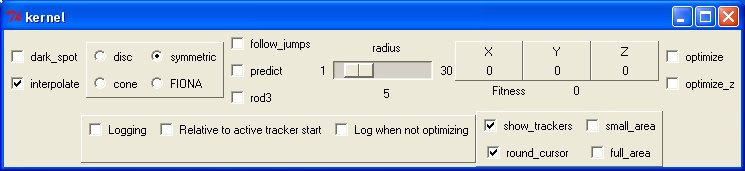
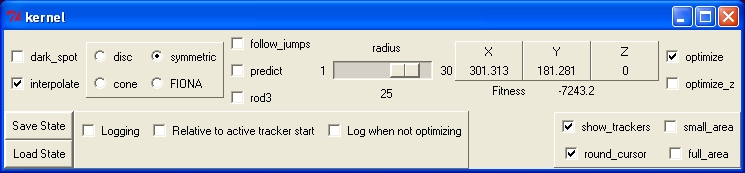
2009-07-31  Russell M. Taylor II  <taylorr@cs.unc.edu>
* video_spot_tracker.cpp : Added buttons to save and load the state of the
		program, along with a -load_state comand-line option.  Updates version
		number to 5.29.

diff --git a/video_spot_tracker/video_spot_tracker.html b/video_spot_tracker/video_spot_tracker.html
@@ -1,6 +1,6 @@
-<title>Video Spot Tracker v05.28</title>
+<title>Video Spot Tracker v05.29</title>
 
-<h1>Video Spot Tracker version 05.28</h1>
+<h1>Video Spot Tracker version 05.29</h1>
 
 <p>The <i><b>Video Spot Tracker</b></i> program is used to track the motion of 
   one or more spots in a <a href="http://www.microsoft.com/directx">Microsoft 
@@ -58,7 +58,7 @@
   icon that was created when the program was installed. To select a stack of image 
   files that are numbered consecutively, drag any one of the files onto the icon. 
   It can also be run by selecting one of the camera-specific shortcuts from <i><b>Start 
-  Menu/All Programs/NSRG/Video Spot Tracker v05.28</b></i>. If you run the program 
+  Menu/All Programs/NSRG/Video Spot Tracker v05.29</b></i>. If you run the program 
   directly by double-clicking on the icon, it will ask for a video or image file 
   (AVI, TIF, or BMP) that it should open.</p>
 
@@ -102,11 +102,11 @@
 
 <h3>Selecting the type of tracker and tracking/logging parameters</h3>
 
-<p><img src="kernel.jpg" width="745" height="171"></p>
+<p><img src="kernel.jpg" width="745" height="173"></p>
 
-<p>There are three types of tracking kernels available in version 4.05: disc, 
-  cone, and symmetric. Their properties are controlled using interface widgets 
-  in the <cite>kernel</cite> control panel.</p>
+<p>There are four types of tracking kernels available: disc, cone, symmetric, 
+  and FIONA. Their properties are controlled using interface widgets in the <cite>kernel</cite> 
+  control panel.</p>
 
 <p>For tracking spots that are even in intensity, or which have uneven intensities within them but a defined circular edge, the <cite><strong>disc</strong></cite> kernel should be used. The radius should be set to match the radius of the spots you wish to track. The <cite><strong>interpolate</strong></cite> checkbox should be set for more accuracy and cleared for more speed.</p>
 
@@ -335,6 +335,14 @@
   within a 5-pixel radius around the center of the Gaussian with the mean background 
   subtracted from each.</p>
 
+<h3>Saving and loading program settings</h3>
+<p>Once you have all of the settings tweaked just the way you like them for a 
+  given experiment set-up, you can save them all to a configuration file using 
+  the <b><i>Save State</i></b> button in the lower-left corner of the <b><i>kernel</i></b> 
+  window. Then, when you open a similar file again later you can load these settings 
+  using the <b><i>Load State</i></b> button. This is useful if you have one or 
+  more favorite settings -- you don't have to set them all again by hand.</p>
+<h3></h3>
 <h3>Controlling playback</h3>
 
 <p>Whether logging is turned on or not, the video can be played by checking the <b><i>play_video</i></b> checkbox, and paused by unchecking it. The <b><i>single_step_video</i></b> checkbox will step forwards one video frame each time it is pressed. The <b><i>rewind</i></b> checkbox causes the video to rewind to the beginning, play the first frame of the video, and then pause. The <cite>FrameNum</cite> display shows which frame of a video file is currently being displayed.</p> 
@@ -364,6 +372,19 @@
 
 <h2>Version Information</h2>
 
+<h3>Version 5.29:</h3>
+<ul>
+  <li>Added <i>Save State</i> and <i>Load State </i>buttons that store the current 
+    kernel, lost-and-found, exposure, and precision settings to a file so that 
+    if you have a favorite setup, you can keep them for running on other files. 
+    Also added a &quot;-load_state&quot; command-line option so that you can use 
+    this with a script. As a special hidden bonus, you should know that each line 
+    from the state file is passed as-is to the Tcl interpreter, so this could 
+    potentially be used to script things besides state.</li>
+  <li>Added a<i> -nogui</i> command-line parameter that turns off the video display 
+    window and enables tracking at greater than the frame-refresh rate.</li>
+</ul>
+<h3></h3>
 <h3>Version 5.28:</h3>
 <ul>
   <li>Added an <i>-intensity_lost_sensitivity</i> command-line parameter so that 

diff --git a/video_spot_tracker.cpp b/video_spot_tracker.cpp
@@ -92,7 +92,7 @@ const double M_PI = 2*asin(1.0);
 
 //--------------------------------------------------------------------------
 // Version string for this program
-const char *Version_string = "05.28";
+const char *Version_string = "05.29";
 
 //--------------------------------------------------------------------------
 // Global constants
@@ -181,7 +181,6 @@ image_wrapper	    *g_calculated_image = NULL;	  //< Image calculated from the ca
 unsigned            g_background_count = 0;       //< Number of frames we've already averaged over
 copy_of_image	    *g_last_image = NULL;	  //< Copy of the last image we had, if any
 
-float		    g_search_radius = 0;	  //< Search radius for doing local max in before optimizing.
 Controllable_Video  *g_video = NULL;		  //< Video controls, if we have them
 Tclvar_int_with_button	g_frame_number("frame_number",NULL,-1);  //< Keeps track of video frame number
 #ifdef _WIN32
@@ -282,6 +281,8 @@ void  set_debug_visibility(int newvalue, void *);
 void  set_kymograph_visibility(int newvalue, void *);
 void  set_maximum_search_radius(int newvalue, void *);
 void  handle_optimize_z_change(int newvalue, void *);
+void  handle_save_state_change(int newvalue, void *);
+void  handle_load_state_change(int newvalue, void *);
 Tclvar_float		g_X("x");
 Tclvar_float		g_Y("y");
 Tclvar_float		g_Z("z");
@@ -308,7 +309,8 @@ Tclvar_int_with_button	g_showLostAndFound("show_lost_and_found","",0);
 Tclvar_int_with_button	g_invert("dark_spot",NULL,0, rebuild_trackers);
 Tclvar_int_with_button	g_interpolate("interpolate",NULL,1, rebuild_trackers);
 Tclvar_int_with_button	g_parabolafit("parabolafit",NULL,0);
-Tclvar_int_with_button	g_areamax("areamax",NULL,0, set_maximum_search_radius);
+Tclvar_int_with_button	g_follow_jumps("follow_jumps",NULL,0, set_maximum_search_radius);
+Tclvar_float		g_search_radius("search_radius",0);	  //< Search radius for doing local max in before optimizing.
 Tclvar_int_with_button	g_predict("predict",NULL,0);
 Tclvar_int_with_button	g_kernel_type("kerneltype", NULL, KERNEL_SYMMETRIC, rebuild_trackers);
 Tclvar_int_with_button	g_rod("rod3",NULL,0, rebuild_trackers);
@@ -317,6 +319,8 @@ Tclvar_float_with_scale	g_orientation("orient", ".rod3", 0, 359, 0);
 Tclvar_int_with_button	g_opt("optimize",".kernel.optimize");
 Tclvar_int_with_button	g_opt_z("optimize_z",".kernel.optimize", 0, handle_optimize_z_change);
 Tclvar_selector		g_psf_filename("psf_filename", NULL, NULL, "");
+Tclvar_selector		g_load_state_filename("load_state_filename", NULL, NULL, "");
+Tclvar_selector		g_save_state_filename("save_state_filename", NULL, NULL, "");
 Tclvar_int_with_button	g_round_cursor("round_cursor",NULL,1);
 Tclvar_int_with_button	g_small_area("small_area",NULL);
 Tclvar_int_with_button	g_full_area("full_area",NULL);
@@ -333,6 +337,8 @@ Tclvar_int_with_button	*g_play = NULL, *g_rewind = NULL, *g_step = NULL;
 Tclvar_selector		g_logfilename("logfilename", NULL, NULL, "", logfilename_changed, NULL);
 Tclvar_int		g_log_relative("logging_relative");
 Tclvar_int		g_log_without_opt("logging_without_opt");
+Tclvar_int	        g_save_state("save_state", 0, handle_save_state_change);
+Tclvar_int	        g_load_state("load_state", 0, handle_load_state_change);
 double			g_log_offset_x, g_log_offset_y, g_log_offset_z;
 Tclvar_int              g_logging("logging"); //< Accessor for the GUI logging button so rewind can turn it off.
 bool g_video_valid = false; // Do we have a valid video frame in memory?
@@ -1481,7 +1487,7 @@ static void optimize_tracker(Spot_Information *tracker)
   // image-based tracker for this because other trackers may have maximum
   // fits outside the region where the bead is -- the symmetric tracker often
   // has a local maximum at best fit and global maxima elsewhere.
-  if ( g_last_image && (g_search_radius > 0) && (g_last_optimized_frame_number != g_frame_number) ) {
+  if ( g_last_image && ((double)(g_search_radius) > 0) && (g_last_optimized_frame_number != g_frame_number) ) {
 
     double x_base = tracker->xytracker()->get_x();
     double y_base = tracker->xytracker()->get_y();
@@ -1491,7 +1497,7 @@ static void optimize_tracker(Spot_Information *tracker)
     // it starts to lose track with an accuracy of 1 pixel for a bead on cilia in
     // pulnix video (acquired at 120 frames/second).
     double used_search_radius = g_search_radius;
-    if ( g_predict && (g_search_radius > 3) ) {
+    if ( g_predict && (used_search_radius > 3) ) {
       used_search_radius = 3;
     }
 
@@ -2338,7 +2344,7 @@ void myIdleFunc(void)
   // If we're doing a search for local maximum during optimization, then make a
   // copy of the previous image before reading a new one.
 
-  if (g_search_radius > 0) {
+  if ((double)(g_search_radius) > 0) {
     if (g_last_image == NULL) {
       g_last_image = new copy_of_image(*g_image);
     } else {
@@ -3253,6 +3259,128 @@ void  set_maximum_search_radius(int newvalue, void *)
   g_search_radius = 4 * g_Radius * newvalue;
 }
 
+// When the button for "Save State" is pressed, this
+// routine is called.  Ask the user for a file to save the state to.
+void  handle_save_state_change(int newvalue, void *)
+{
+  //------------------------------------------------------------
+  // Create a dialog box that will ask the user
+  // to either fill it in or cancel (if the file is "NONE").
+  // Wait until they have made a choice.
+  g_save_state_filename = "";
+  if (Tcl_Eval(g_tk_control_interp, "ask_user_for_save_state_filename") != TCL_OK) {
+    fprintf(stderr, "Tcl_Eval(ask_user_for_save_state_filename) failed: %s\n", g_tk_control_interp->result);
+    cleanup();
+    exit(-1);
+  }
+  do {
+    //------------------------------------------------------------
+    // This pushes changes in the C variables over to Tcl.
+
+    while (Tk_DoOneEvent(TK_DONT_WAIT)) {};
+    if (Tclvar_mainloop()) {
+	fprintf(stderr,"Tclvar Mainloop failed\n");
+    }
+  } while (strcmp(g_save_state_filename,"") == 0);
+
+  //------------------------------------------------------------
+  // Open the file and write a Tcl-interpretable line for each
+  // state value that we want to set.  These will then be
+  // interpreted when the file is loaded again.  Do not store
+  // the state of the optimize flag or the locations of any of
+  // the trackers, but do set all of the default values.
+  const char *outname = g_save_state_filename;
+  FILE *f = fopen(outname, "w");
+  if (f == NULL) {
+    perror("Cannot open state file for writing");
+    fprintf(stderr, "  (%s)\n", outname);
+    return;
+  }
+  fprintf(f, "set radius %lg\n", (double)(g_Radius));
+  fprintf(f, "set exposure_millisecs %lg\n", (double)(g_exposure));
+  fprintf(f, "set red_green_blue %lg\n", (double)(g_colorIndex));
+  fprintf(f, "set brighten %lg\n", (double)(g_brighten));
+  fprintf(f, "set precision %lg\n", (double)(g_precision));
+  fprintf(f, "set sample_spacing %lg\n", (double)(g_sampleSpacing));
+  fprintf(f, "set kernel_lost_tracking_sensitivity %lg\n", (double)(g_lossSensitivity));
+  fprintf(f, "set intensity_lost_tracking_sensitivity %lg\n", (double)(g_intensityLossSensitivity));
+  fprintf(f, "set dead_zone_around_border %lg\n", (double)(g_borderDeadZone));
+  fprintf(f, "set dead_zone_around_trackers %lg\n", (double)(g_trackerDeadZone));
+  fprintf(f, "set maintain_this_many_beads %lg\n", (double)(g_findThisManyBeads));
+  fprintf(f, "set candidate_spot_threshold %lg\n", (double)(g_candidateSpotThreshold));
+  fprintf(f, "set sliding_window_radius %lg\n", (double)(g_slidingWindowRadius));
+  fprintf(f, "set lost_behavior %d\n", (int)(g_lostBehavior));
+  fprintf(f, "set kerneltype %d\n", (int)(g_kernel_type));
+  fprintf(f, "set dark_spot %d\n", (int)(g_invert));
+  fprintf(f, "set interpolate %d\n", (int)(g_interpolate));
+  fprintf(f, "set parabolafit %d\n", (int)(g_parabolafit));
+  fprintf(f, "set predict %d\n", (int)(g_predict));
+  fprintf(f, "set follow_jumps %d\n", (int)(g_follow_jumps));
+  fprintf(f, "set search_radius %lg\n", (double)(g_search_radius));
+  fprintf(f, "set predict %d\n", (int)(g_predict));
+  fprintf(f, "set rod3 %d\n", (int)(g_rod));
+  fprintf(f, "set length %lg\n", (double)(g_length));
+  fprintf(f, "set orientation %lg\n", (double)(g_orientation));
+  fprintf(f, "set round_cursor %d\n", (int)(g_round_cursor));
+  fprintf(f, "set show_tracker %d\n", (int)(g_mark));
+  fprintf(f, "set show_video %d\n", (int)(g_show_video));
+  fprintf(f, "set background_subtract %d\n", (int)(g_background_subtract));
+
+  fclose(f);
+}
+
+bool load_state_from_file(const char *inname)
+{
+  //------------------------------------------------------------
+  // Open the file and read each of its lines, passing it to the Tcl
+  // parser for evaluation.  This lets people put whatever set commands
+  // they want into one of these files.
+  FILE *f = fopen(inname, "r");
+  if (f == NULL) {
+    perror("Cannot open state file for reading");
+    fprintf(stderr, "  (%s)\n", inname);
+    return false;
+  }
+  char  line[4096];
+  while (fgets(line, sizeof(line)-1, f)) {
+    if (Tcl_Eval(g_tk_control_interp, line) != TCL_OK) {
+      fprintf(stderr, "Tcl_Eval(%s) failed: %s\n", line, g_tk_control_interp->result);
+      cleanup();
+      exit(-1);
+    }
+  }
+  fclose(f);
+
+  return true;
+}
+
+// When the button for "Load State" is pressed, this
+// routine is called.  Ask the user for a file to load the state from.
+void  handle_load_state_change(int newvalue, void *)
+{
+  //------------------------------------------------------------
+  // Create a dialog box that will ask the user
+  // to either fill it in or cancel (if the file is "NONE").
+  // Wait until they have made a choice.
+  g_load_state_filename = "";
+  if (Tcl_Eval(g_tk_control_interp, "ask_user_for_load_state_filename") != TCL_OK) {
+    fprintf(stderr, "Tcl_Eval(ask_user_for_load_state_filename) failed: %s\n", g_tk_control_interp->result);
+    cleanup();
+    exit(-1);
+  }
+  do {
+    //------------------------------------------------------------
+    // This pushes changes in the C variables over to Tcl.
+
+    while (Tk_DoOneEvent(TK_DONT_WAIT)) {};
+    if (Tclvar_mainloop()) {
+	fprintf(stderr,"Tclvar Mainloop failed\n");
+    }
+  } while (strcmp(g_load_state_filename,"") == 0);
+
+  load_state_from_file(g_load_state_filename);
+}
+
 // When the check-box for "optimize Z" is changed, this
 // routine is called.  When it is turning on, we make the
 // user select a PSF file to use for Z tracking and create
@@ -3332,8 +3460,9 @@ void Usage(const char *progname)
 	fprintf(stderr, "           [-candidate_spot_threshold T] [-sliding_window_radius SR]\n");
 	fprintf(stderr, "           [-radius R] [-tracker X Y R] [-tracker X Y R]\n");
     fprintf(stderr, "           [-FIONA_background BG] ...\n");
+    fprintf(stderr, "           [-load_state FILE]\n");
     fprintf(stderr, "           [roper|cooke|edt|diaginc|directx|directx640x480|filename]\n");
-    fprintf(stderr, "       -nogui: Run without any graphical user interface (2D or 3D)\n");
+    fprintf(stderr, "       -nogui: Run without the video display window (no Glut/OpenGL)\n");
     fprintf(stderr, "       -kernel: Use kernels of the specified type (default symmetric)\n");
     fprintf(stderr, "       -rod3: Make a rod3 kernel of specified LENGTH(pixels) & ORIENT(degrees)\n");
     fprintf(stderr, "       -dark_spot: Track a dark spot (default is bright spot)\n");
@@ -3361,7 +3490,8 @@ void Usage(const char *progname)
     fprintf(stderr, "       -tracker: Create a tracker with radius R at pixel X,Y and initiate\n");
     fprintf(stderr, "                 optimization.  Multiple trackers can be created\n");
     fprintf(stderr, "       -FIONA_background: Set the default background for FIONA trackers to BG\n");
-	fprintf(stderr, "                 (default 0)\n");
+    fprintf(stderr, "                 (default 0)\n");
+    fprintf(stderr, "       -load_state: Load program state from FILE\n");
     fprintf(stderr, "       source: The source file for tracking can be specified here (default is\n");
 	fprintf(stderr, "                 a dialog box)\n");
     exit(-1);
@@ -3574,7 +3704,7 @@ int main(int argc, char *argv[])
     } else if (!strncmp(argv[i], "-dark_spot", strlen("-dark_spot"))) {
       g_invert = true;
     } else if (!strncmp(argv[i], "-follow_jumps", strlen("-follow_jumps"))) {
-      g_areamax = 1;
+      g_follow_jumps = 1;
     } else if (!strncmp(argv[i], "-outfile", strlen("-outfile"))) {
       if (++i > argc) { Usage(argv[0]); }
       char *name = new char[strlen(argv[i])+6];
@@ -3634,6 +3764,12 @@ int main(int argc, char *argv[])
 		g_Radius = atof(argv[i]);
 	} else if (!strncmp(argv[i], "-show_lost_and_found", strlen("-show_lost_and_found"))) {
 		g_showLostAndFound = true;
+    } else if (!strncmp(argv[i], "-load_state", strlen("-load_state"))) {
+      if (++i > argc) { Usage(argv[0]); }
+      if (!load_state_from_file(argv[i])) {
+        fprintf(stderr,"Could not load state file from %s\n", argv[i]);
+        exit(-1);
+      }
     } else if (argv[i][0] == '-') {
       Usage(argv[0]);
     } else {
